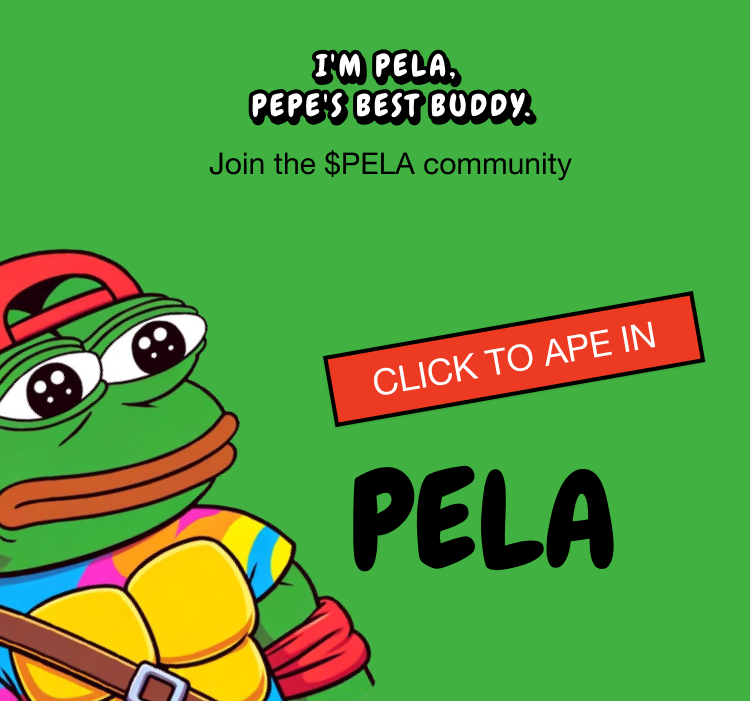
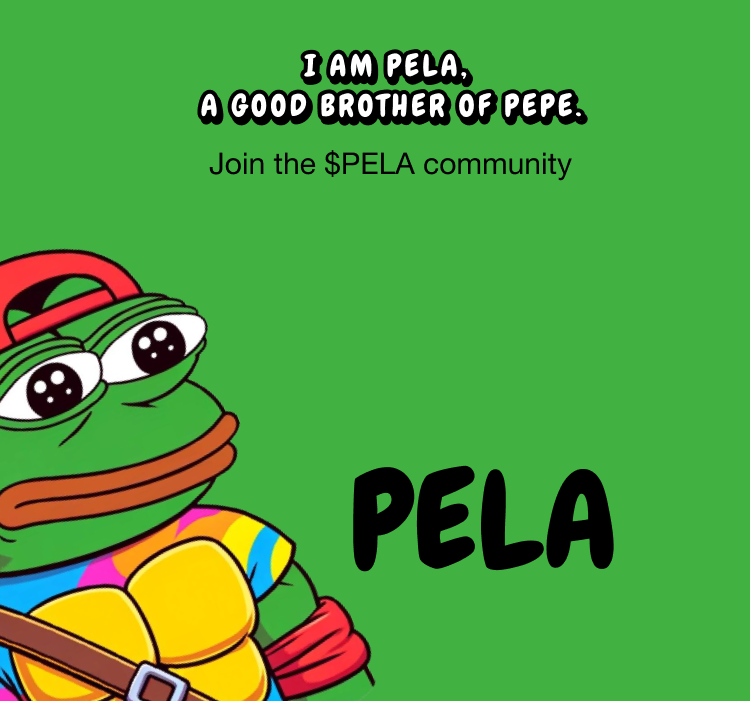
more changes

Changed region(s): [[0.4293, 0.4194, 0.9507, 0.6291], [0.2453, 0.0599, 0.7973, 0.1797]]

diff --git a/mobile.html b/mobile.html
@@ -16,7 +16,7 @@
         <div class="flex-col group">
           <img
             class="image"
-            src="https://ide.code.fun/api/image?token=66591518602bd20012649b31&name=8decb1b6d21189b20785fe8d6086e160.png"
+            src="assets/mobile/image.png"
           />
           <div class="mt-16 flex-row relative group_2">
             <div class="flex-col group_3 pos">
@@ -39,11 +39,11 @@
             </div>
             <img
               class="image_3 pos_3"
-              src="https://ide.code.fun/api/image?token=66591518602bd20012649b31&name=00b05367030414da8413aa52836041c3.png"
+              src="assets/mobile/image_2.png"
             />
             <img
               class="image_4 pos_4"
-              src="https://ide.code.fun/api/image?token=66591518602bd20012649b31&name=f5c77d1a5bf4ad4256907bfc977a45a6.png"
+              src="assets/mobile/image_3.png"
               onclick="window.open('https://x.com/pelacoinsol', '_blank')"
             />
             <!-- <div class="flex-col section pos_6">
@@ -78,7 +78,7 @@
             </div>
             <img
               class="image_2 pos_2"
-              src="https://ide.code.fun/api/image?token=66591518602bd20012649b31&name=cb3ba5616657ba4d4ef5dcd99f4c16a4.png"
+              src="assets/mobile/image_13.png"
             />
           </div>
         </div>
@@ -93,14 +93,14 @@
             </span>
             <img
               class="shrink-0 image_8 pos_11"
-              src="https://ide.code.fun/api/image?token=66591518602bd20012649b31&name=89747529eac4f4f5f07a39c3bf6a2cb1.png"
+              src="assets/mobile/image_7.png"
             />
             <div class="flex-col justify-start items-start section_3 pos_7">
               <div class="flex-col justify-start section_4">
                 <div class="flex-col justify-start items-center image-wrapper">
                   <img
                     class="image_7"
-                    src="https://ide.code.fun/api/image?token=66591518602bd20012649b31&name=3f26a45fd8eedaa5204621104967bb80.png"
+                    src="assets/mobile/image_6.png"
                   />
                 </div>
               </div>

diff --git a/desktop.html b/desktop.html
@@ -247,9 +247,9 @@
             </div>
           </div>
           <div class="flex-col justify-start items-center relative section_8">
-            <span class="font_3 text_9">I'm PELA,</span>
+            <span class="font_3 text_9">I am PELA,</span>
             <div class="flex-col justify-start items-center group_11 pos_26">
-              <span class="font_3 text_9">PEPE's best buddy.</span>
+              <span class="font_3 text_9">a good brother of PEPE.</span>
               <img
                 class="image_14 pos_21"
                 src="assets/image_14.png"
@@ -259,10 +259,10 @@
                 src="assets/image_13.png"
               />
             </div>
-            <img
+            <!-- <img
               class="image_15 pos_1"
               src="assets/image_15.png"
-            />
+            /> -->
             <span class="font text pos_22">PELA</span>
           </div>
         </div>

diff --git a/Page_5.css b/Page_5.css
@@ -977,7 +977,7 @@ body, html {
 .pos_20 {
   position: absolute;
   right: -77px;
-  top: 9px;
+  top: 154px;
 }
 .image_15 {
   filter: drop-shadow(0px 1px 1px #0000001a, 0px 1px 1.5px #0000001a);
